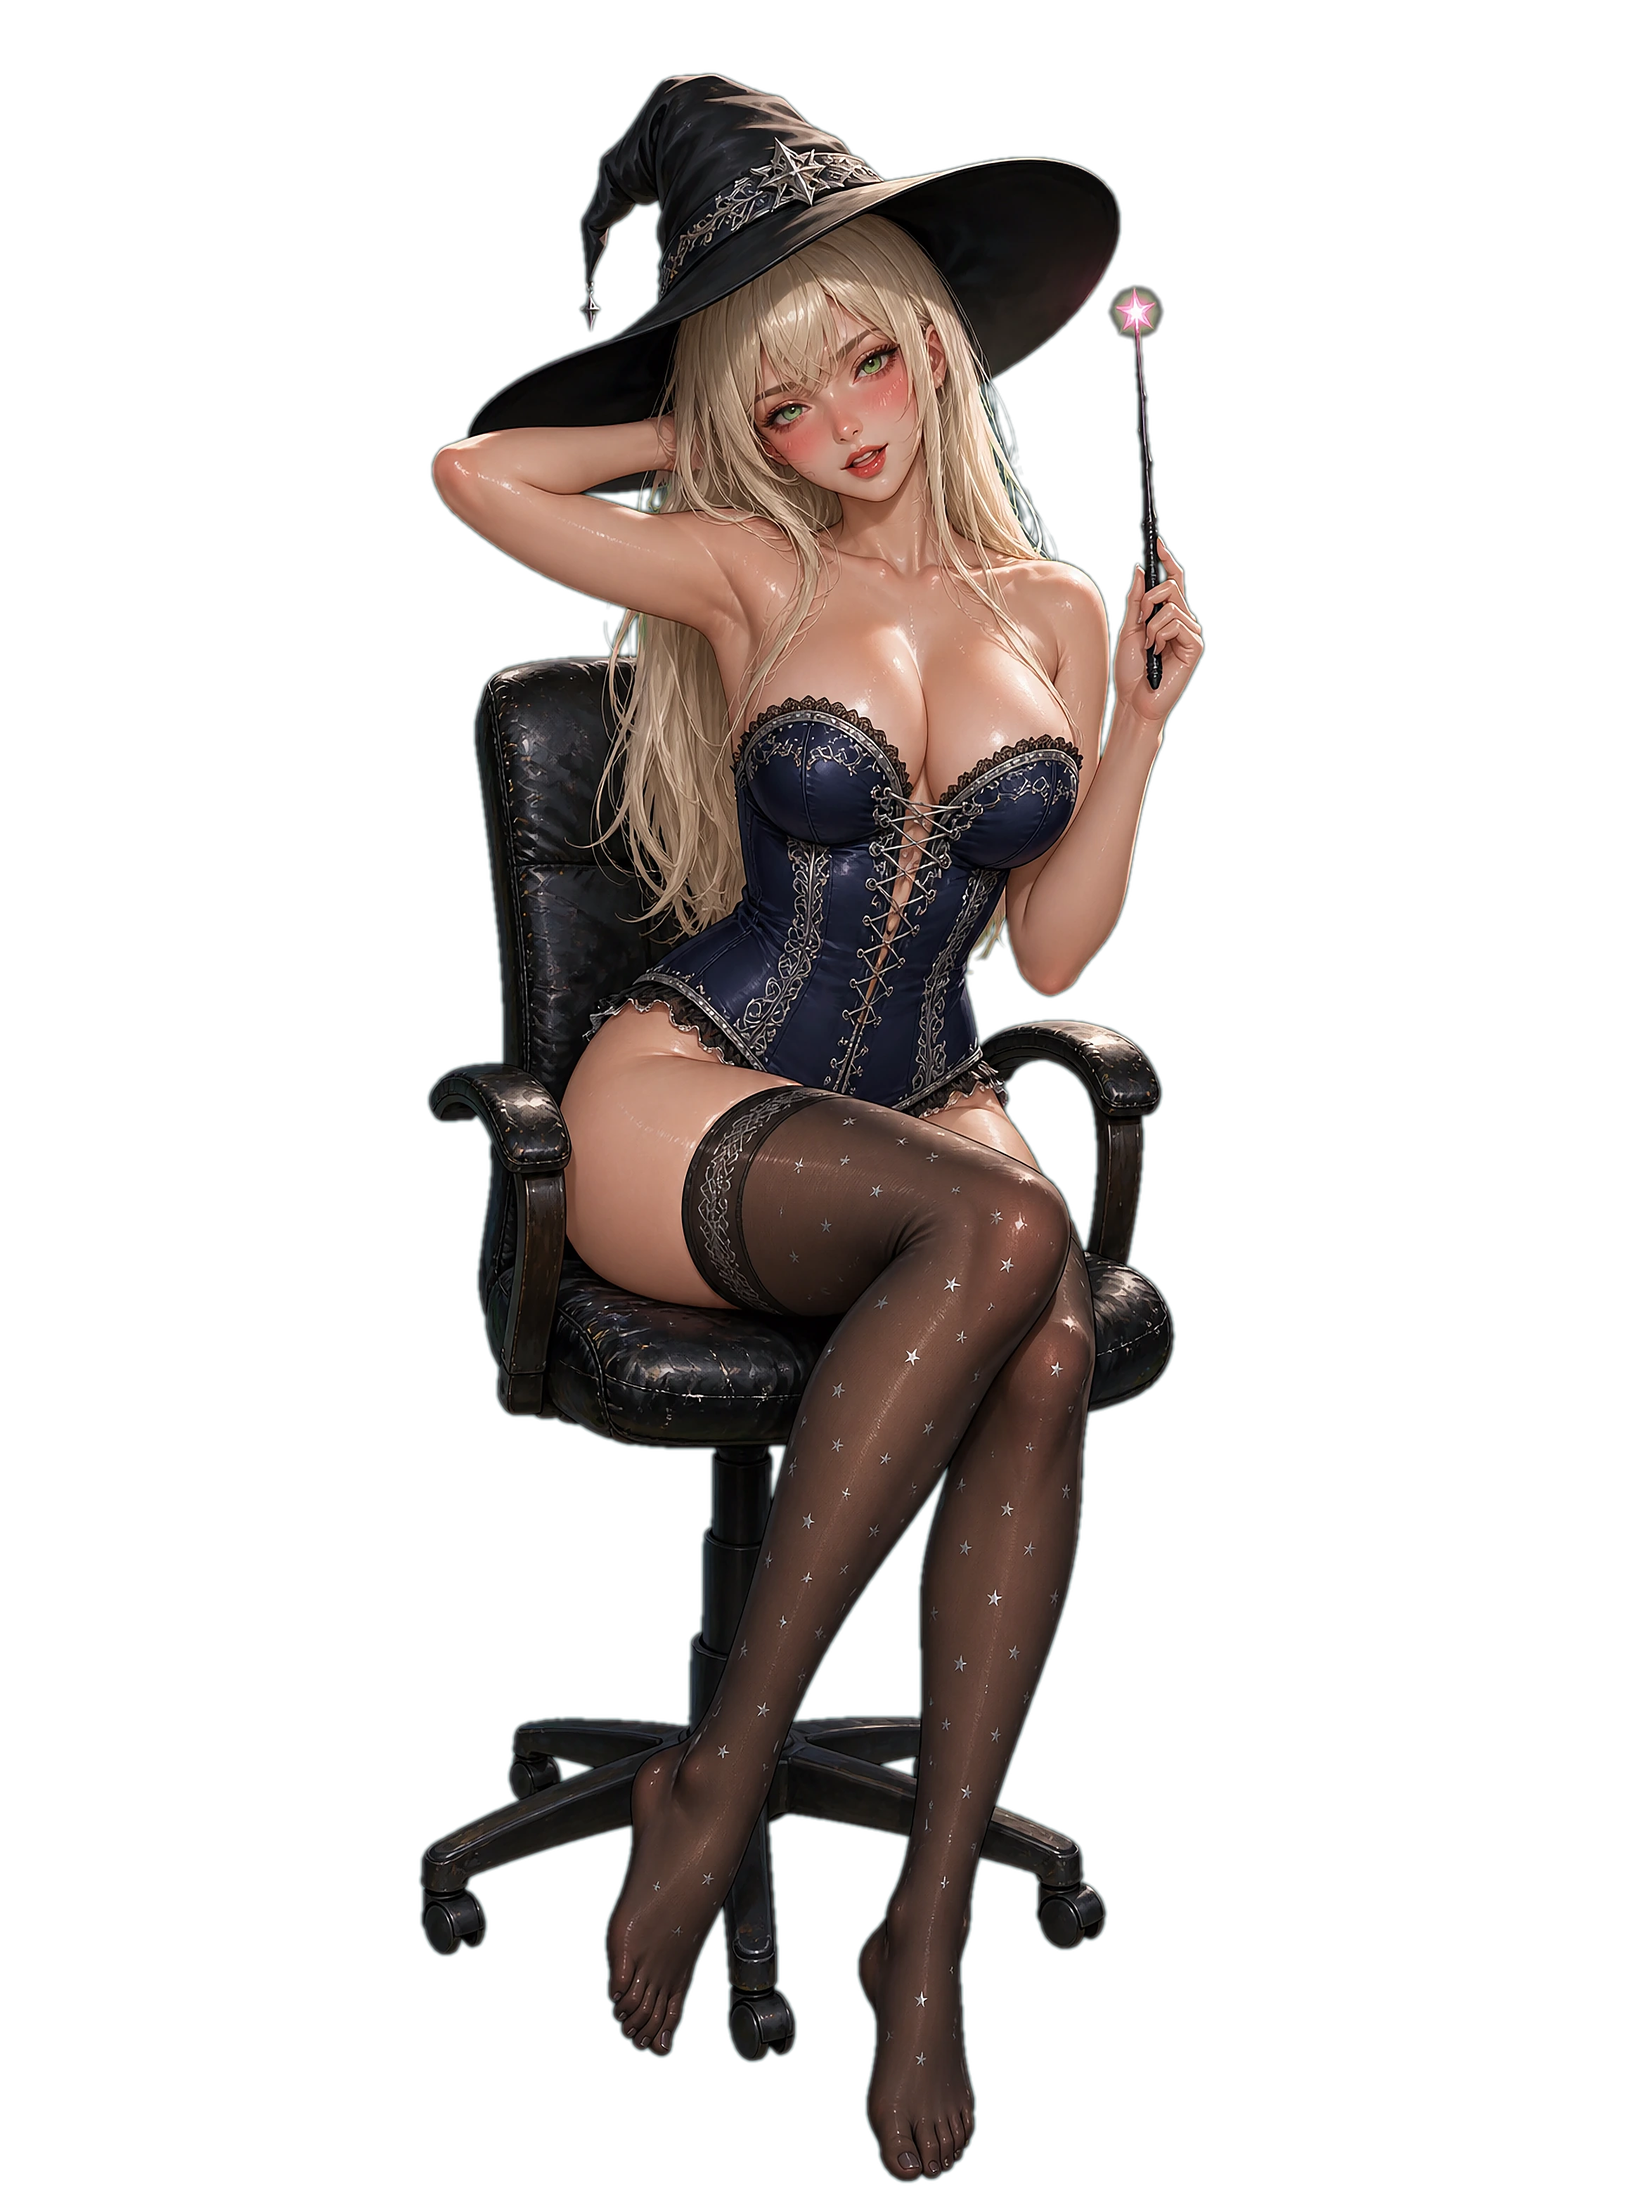
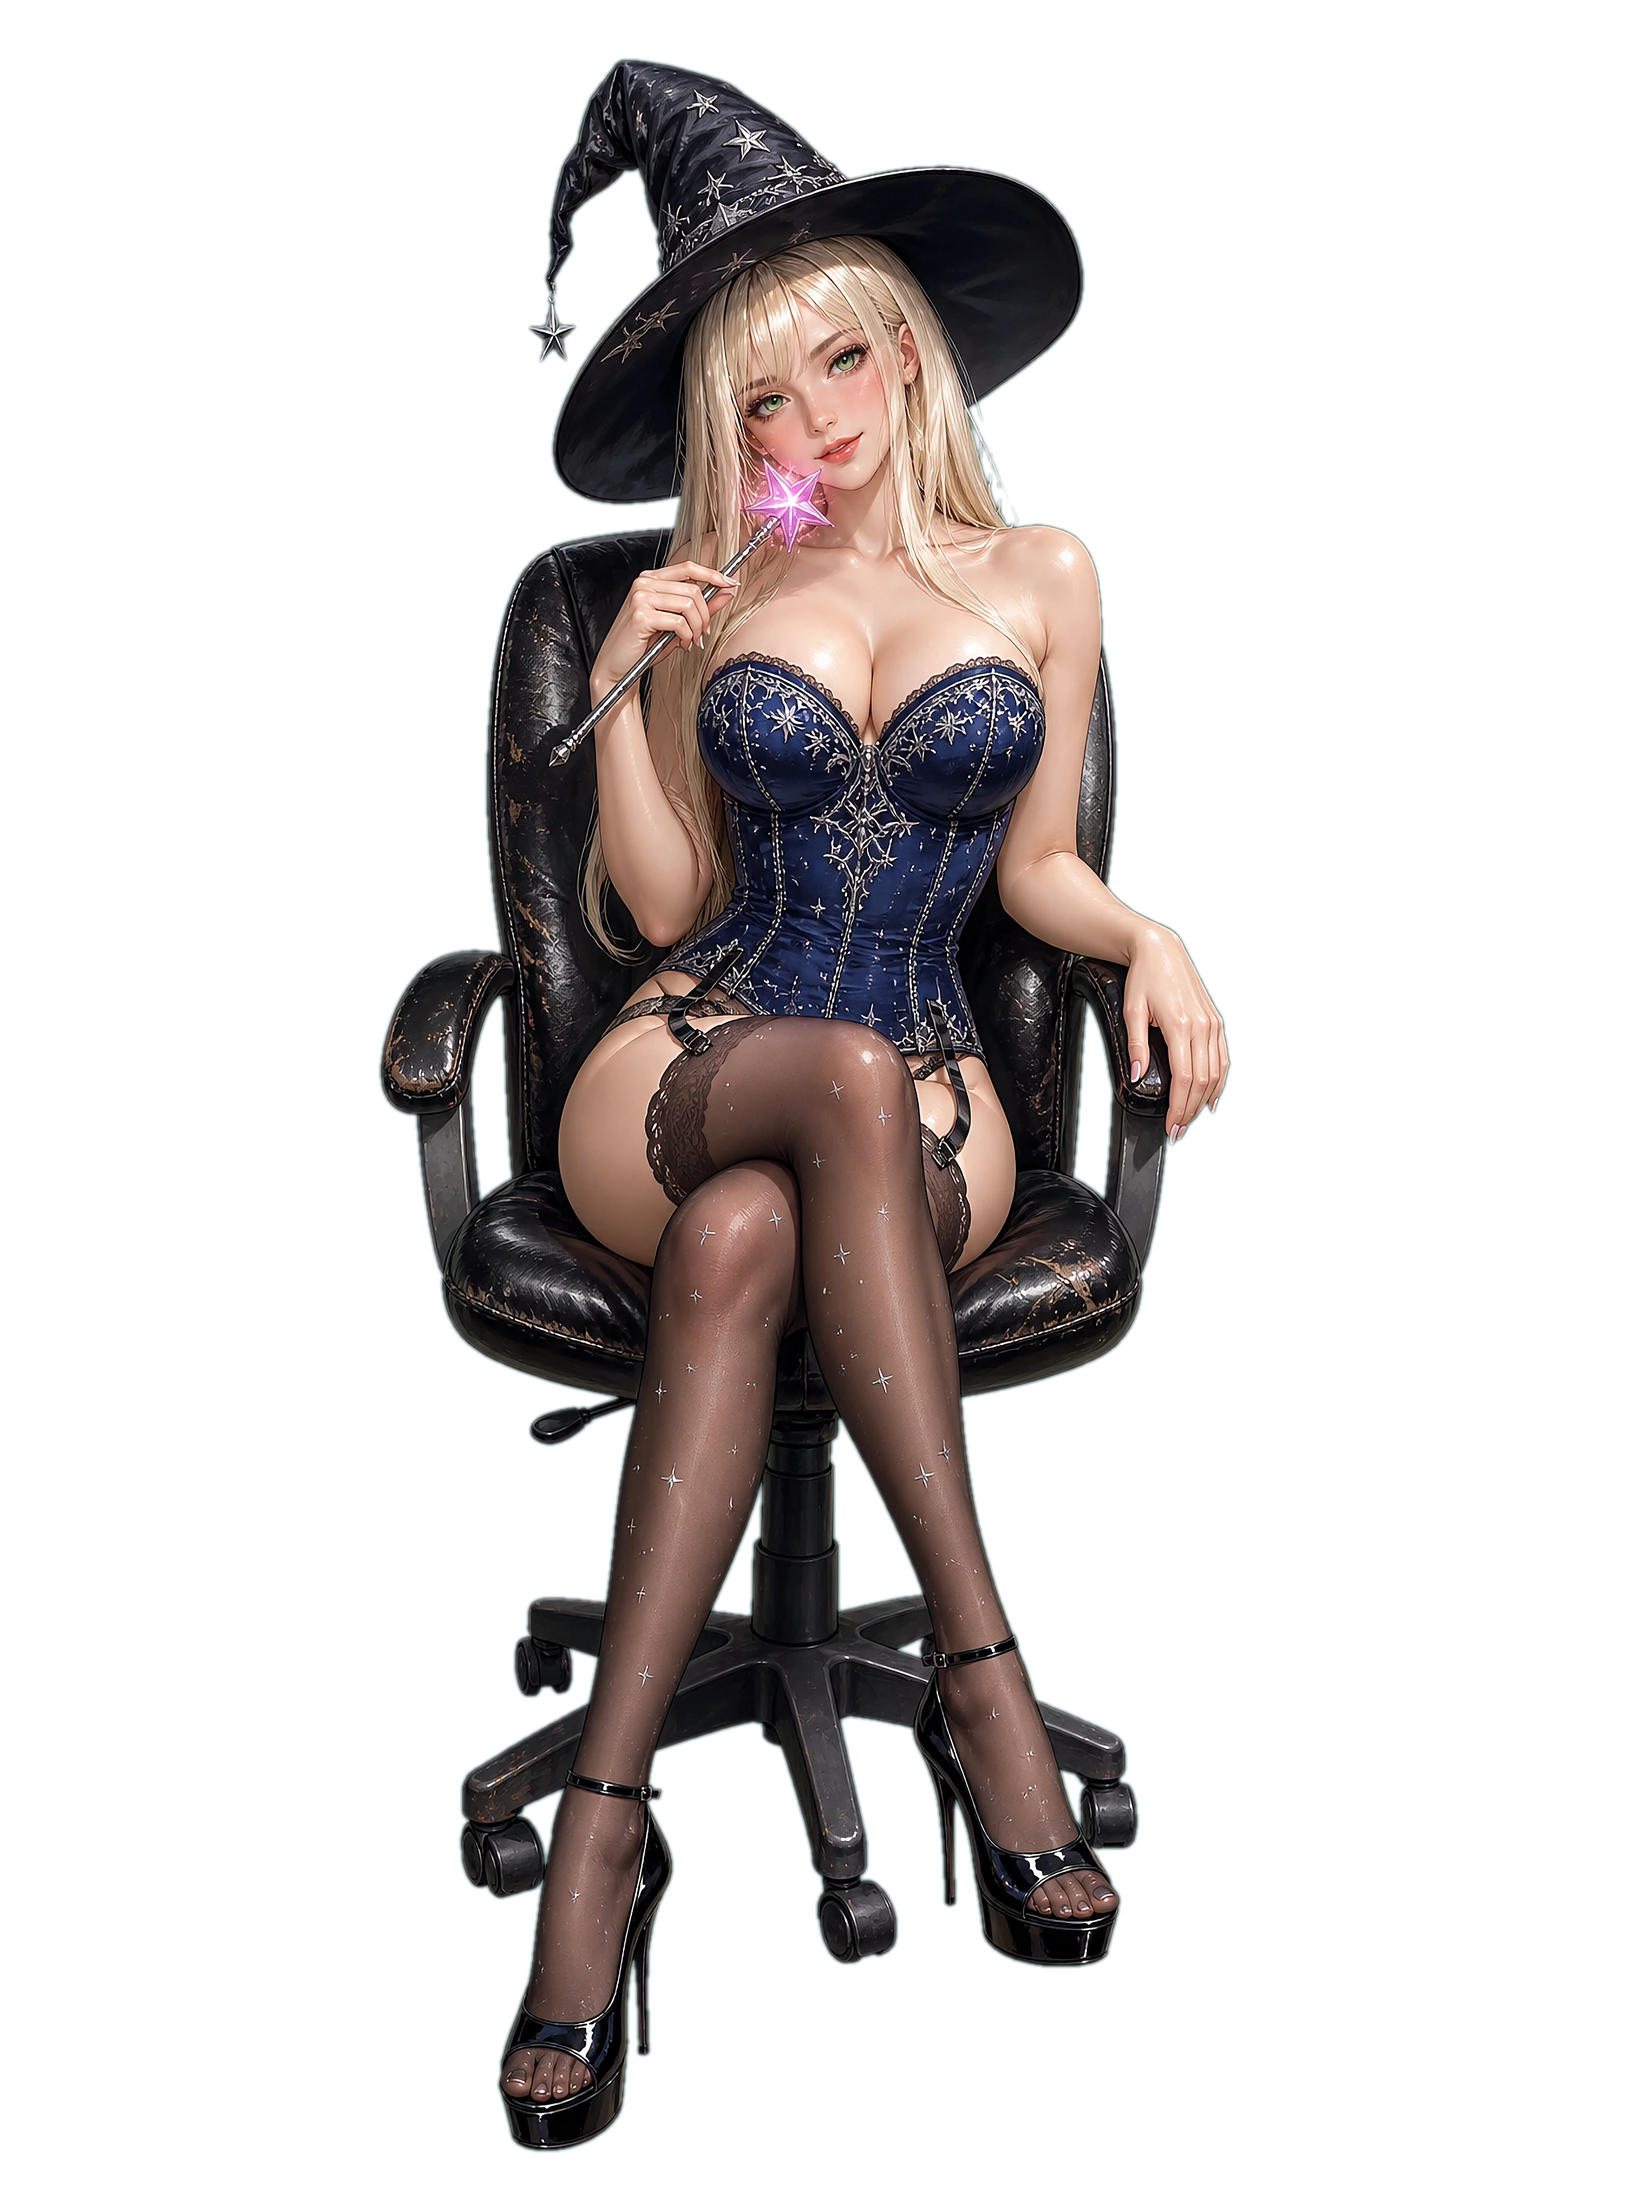
День 4: шпильки с открытым носом, стопы в камеру на поздних позах
- Все четыре позы перерисованы заново с каблуками (открытый нос, чулок
  поверх пальцев) — по просьбе «вернуть шпильки».
- Поз. 1-2 одобрены как есть; поз. 3 и 4 пересняты горячее: низкий корсет,
  подвязки, нога за ногу и откинутая поза с двумя стопами в камеру.
- Геометрия под новый арт: BOX/EYES всех четырёх поз (центры глаз вычитаны
  по сетке на кропах), грудь для всех четырёх, FRAME 101-103%.
- BUST_GEO_REAL_D4 в index.html обновлён.

Changed region(s): [[0.2184, 0.0, 0.7487, 0.9949]]

diff --git a/index.html b/index.html
@@ -1879,10 +1879,10 @@ const BUST_GEO_D3 = {};
    открытую кожу над верхней кромкой, вышивку корсета не тянем. В позе 2
    грудь закрыта руками и палочкой — пропов нет (как поза 2 дня 2). */
 const BUST_GEO_REAL_D4 = {
-  sg1: { l:[0.440,0.318,0.052,0.030], r:[0.494,0.314,0.052,0.030] },
-  sg2: { l:[0.469,0.320,0.050,0.029], r:[0.525,0.318,0.050,0.029] },
-  sg3: { l:[0.468,0.325,0.048,0.029], r:[0.537,0.322,0.048,0.029] },
-  sg4: { l:[0.472,0.307,0.048,0.029], r:[0.549,0.304,0.048,0.029] },
+  sg1: { l:[0.428,0.322,0.050,0.028], r:[0.515,0.317,0.050,0.028] },
+  sg2: { l:[0.615,0.337,0.048,0.027], r:[0.675,0.333,0.048,0.027] },
+  sg3: { l:[0.455,0.322,0.048,0.028], r:[0.545,0.317,0.048,0.028] },
+  sg4: { l:[0.550,0.355,0.046,0.027], r:[0.620,0.350,0.046,0.027] },
 };
 const BUST_GEO_D4 = {};
 
@@ -1928,7 +1928,7 @@ const FRAME = {
   /* день 4: масштаб выровнен по расстоянию между глазами. Отрицательный
      padding-top браузер игнорирует, поэтому кадр задаём только высотой стопки:
      она подобрана так, чтобы туфли в новой позе 4 не срезались снизу. */
-  '4sg1': [101, 0], '4sg2': [101, 0], '4sg3': [101, 0], '4sg4': [101, 0],
+  '4sg1': [102, 0], '4sg2': [101, 0], '4sg3': [101, 0], '4sg4': [103, 0],
 };
 
 function frameSet(day, tag){

diff --git a/tools/prep_eyes.py b/tools/prep_eyes.py
@@ -52,10 +52,10 @@ BOX = {
     '3sg2': (0.050, 0.100, 0.360, 0.330),
     '3sg3': (0.360, 0.040, 0.660, 0.270),
     '3sg4': (0.440, 0.020, 0.760, 0.260),
-    '4sg1': (0.395, 0.105, 0.645, 0.290),
-    '4sg2': (0.455, 0.115, 0.665, 0.290),
-    '4sg3': (0.415, 0.115, 0.635, 0.275),
-    '4sg4': (0.405, 0.105, 0.625, 0.255),
+    '4sg1': (0.336, 0.095, 0.586, 0.283),
+    '4sg2': (0.344, 0.070, 0.594, 0.258),
+    '4sg3': (0.349, 0.096, 0.599, 0.284),
+    '4sg4': (0.438, 0.115, 0.688, 0.302),
 }
 # глаза в долях КРОПА: (x0,y0,x1,y1) — левый по картинке, правый по картинке
 EYES = {
@@ -71,10 +71,10 @@ EYES = {
     '3sg2': ((0.360, 0.600, 0.500, 0.720), (0.545, 0.490, 0.680, 0.610)),
     '3sg3': ((0.350, 0.530, 0.485, 0.640), (0.600, 0.510, 0.725, 0.620)),
     '3sg4': ((0.221, 0.464, 0.371, 0.560), (0.396, 0.578, 0.546, 0.674)),
-    '4sg1': ((0.310, 0.350, 0.460, 0.460), (0.485, 0.376, 0.635, 0.486)),
-    '4sg2': ((0.210, 0.250, 0.355, 0.310), (0.454, 0.356, 0.579, 0.426)),
-    '4sg3': ((0.216, 0.403, 0.381, 0.513), (0.442, 0.267, 0.602, 0.377)),
-    '4sg4': ((0.239, 0.467, 0.379, 0.587), (0.417, 0.331, 0.562, 0.451)),
+    '4sg1': ((0.465, 0.475, 0.605, 0.575), (0.638, 0.445, 0.778, 0.545)),
+    '4sg2': ((0.330, 0.520, 0.470, 0.620), (0.490, 0.460, 0.630, 0.560)),
+    '4sg3': ((0.415, 0.410, 0.535, 0.500), (0.615, 0.320, 0.735, 0.415)),
+    '4sg4': ((0.265, 0.575, 0.385, 0.675), (0.465, 0.480, 0.585, 0.575)),
 }
 MOODS = ('blink', 'shy')
 GEO = {}                 # key -> [left, top, width, height] в долях кадра

diff --git a/tools/prep_real_d4_chest.py b/tools/prep_real_d4_chest.py
@@ -30,10 +30,10 @@ SIDES = PL.SIDES
 # (иначе двигался «пятачок» и физика читалась вялой). Растушёвка при этом
 # гаснет до контура ткани — гейт по краям в prep_light это держит.
 BUST_D4 = {
-    'sg1': ((0.440, 0.318, 0.052, 0.030), (0.494, 0.314, 0.052, 0.030)),   # сидит, палочка у лица
-    'sg2': ((0.469, 0.320, 0.050, 0.029), (0.525, 0.318, 0.050, 0.029)),   # свернулась, звезда у ключиц
-    'sg3': ((0.468, 0.325, 0.048, 0.029), (0.537, 0.322, 0.048, 0.029)),   # рука за шеей, палочка вверх
-    'sg4': ((0.472, 0.307, 0.048, 0.029), (0.549, 0.304, 0.048, 0.029)),   # откинулась, палочка за головой
+    'sg1': ((0.428, 0.322, 0.050, 0.028), (0.515, 0.317, 0.050, 0.028)),   # сидит, каблуки на полу
+    'sg2': ((0.615, 0.337, 0.048, 0.027), (0.675, 0.333, 0.048, 0.027)),   # свернулась, каблук в камеру
+    'sg3': ((0.455, 0.322, 0.048, 0.028), (0.545, 0.317, 0.048, 0.028)),   # корсет низко, нога за ногу
+    'sg4': ((0.550, 0.355, 0.046, 0.027), (0.620, 0.350, 0.046, 0.027)),   # откинулась, обе стопы в камеру
 }
 
 # наклон корпуса по позе (град, как CHEST_TILT в index.html). Контейнер пропа
